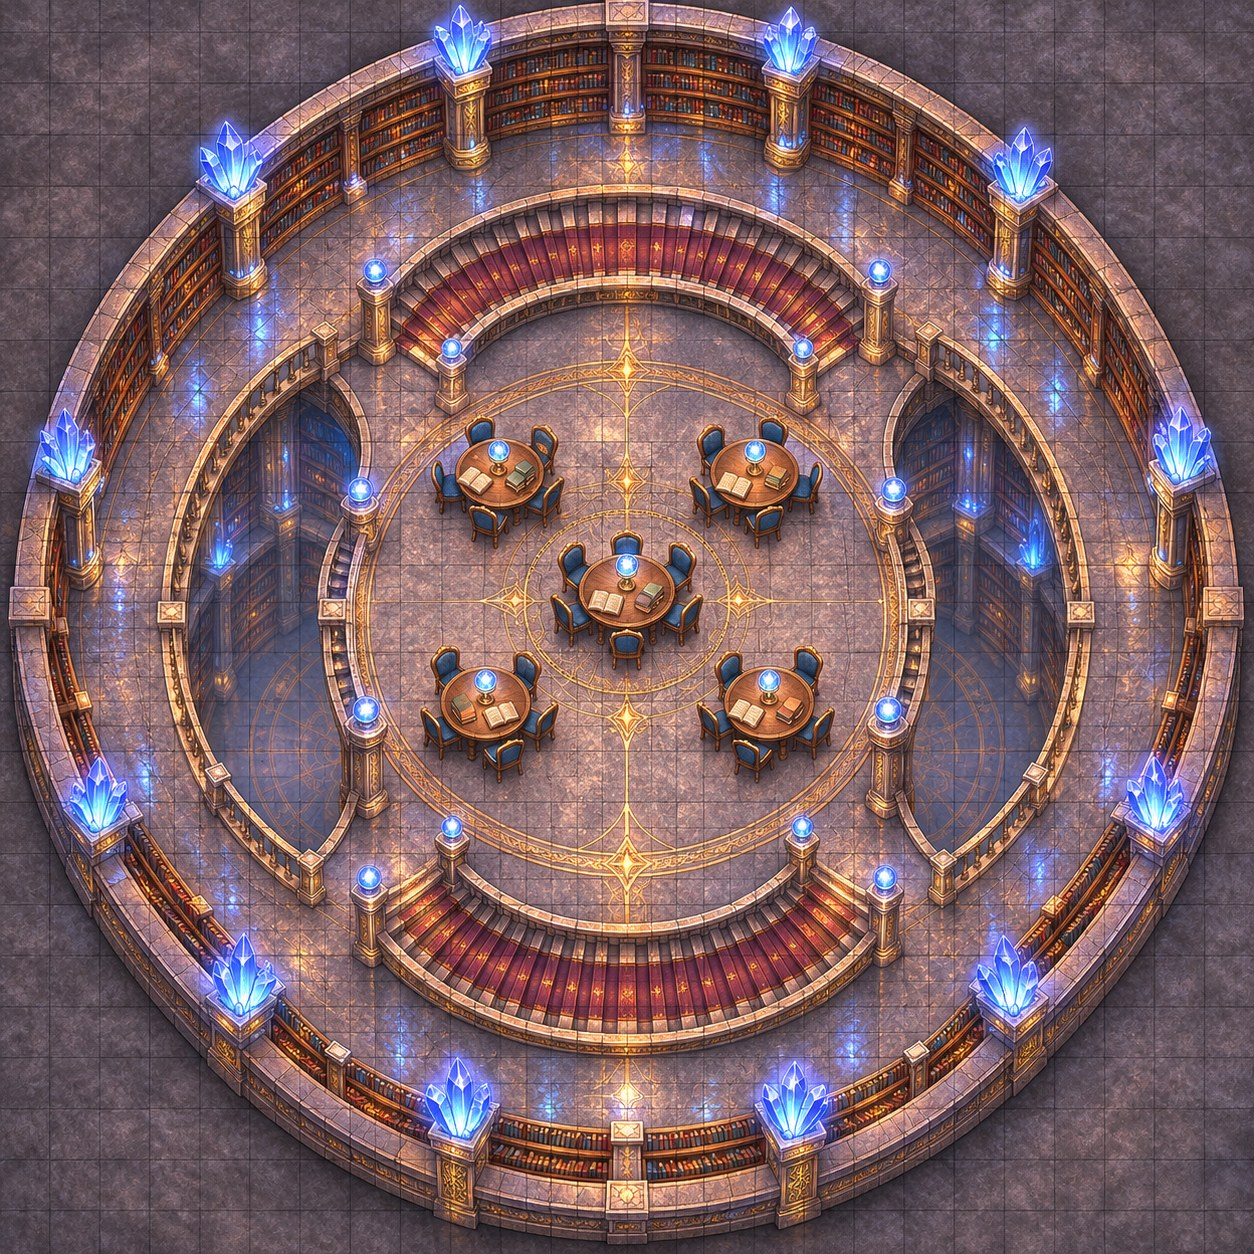
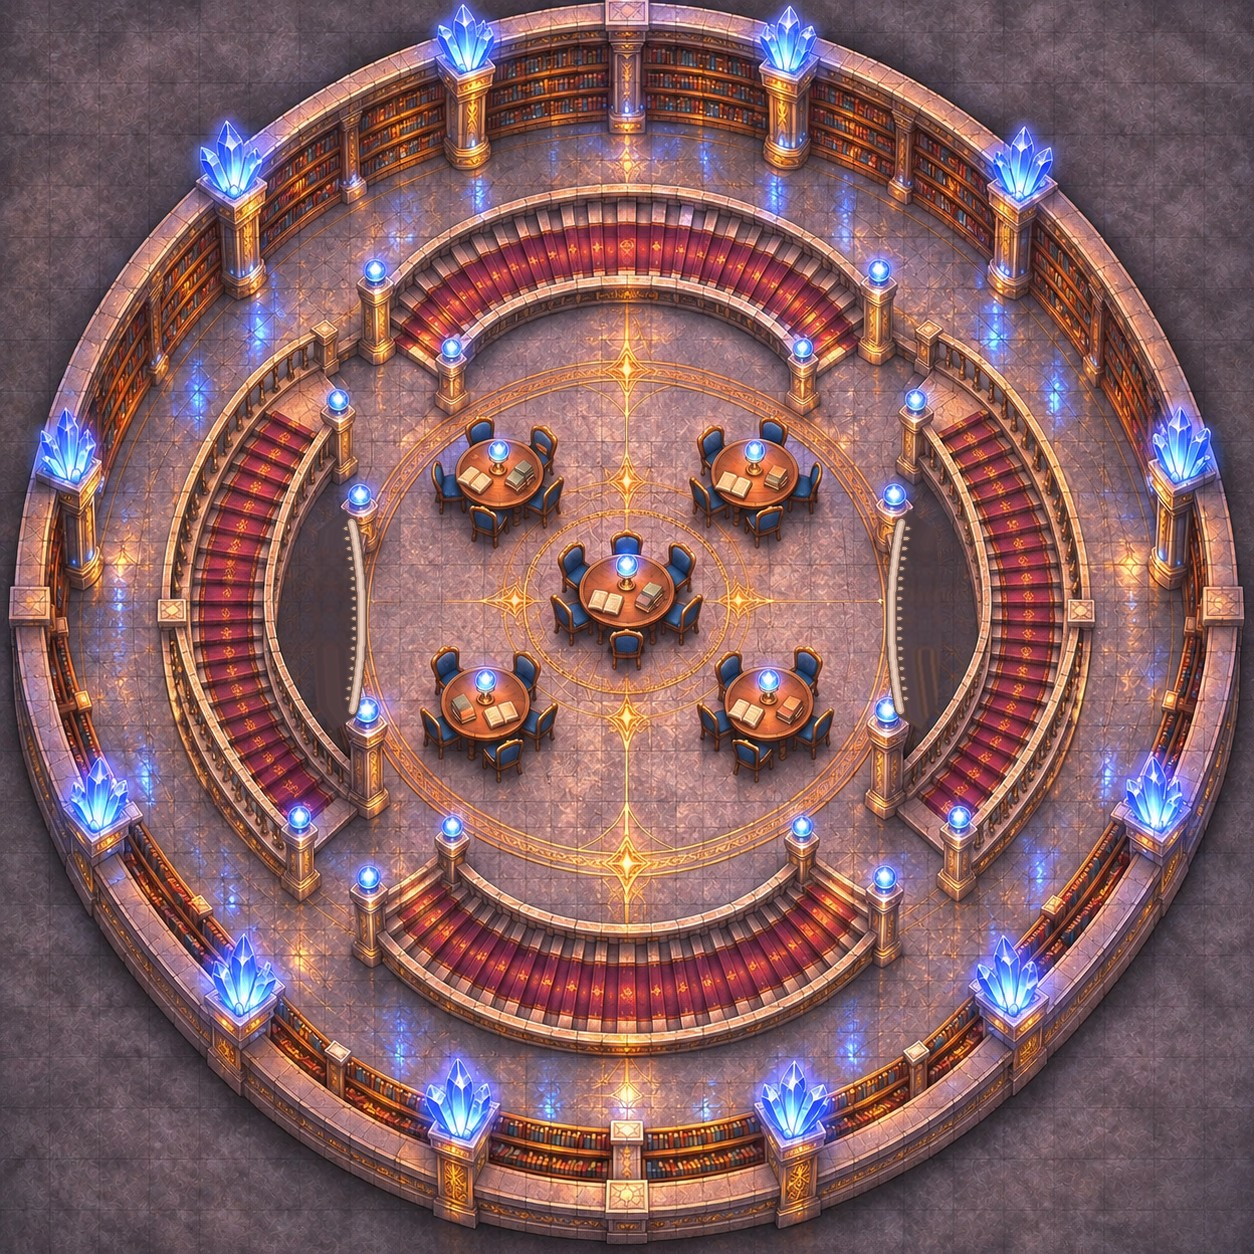
Great Archives: gallery map stairs fixed by hand, key updated
Claude-Session: https://claude.ai/code/session_01QqMC3jV4Jm9bLjV1D99fiy

diff --git a/oneshots/great-archives/homebrewery-source.md b/oneshots/great-archives/homebrewery-source.md
@@ -869,7 +869,7 @@
 \page
 <div class="running" style="--accent:#8a3b12"><span>The Destruction of the Great Archives</span><span>PLAYER MAP</span></div><div class="pf-body gamap" style="--accent:#8a3b12"><p class="gm-eye">PLAYER MAP · GA-M02</p><h2>An Upper Gallery</h2><img class="gm-plate" alt="An Upper Gallery" src="https://oberonandomegaid.github.io/aelderia/oneshots/great-archives/img/map-gallery-player.jpg"><p class="gm-cap">1 square = 5 ft · use for any of Levels 2–6</p><p class="gm-next">GM map and key on the next page</p></div><div class="folio-footer"><span>The Destruction of the Great Archives</span><span>35</span></div>
 \page
-<div class="running" style="--accent:#8a3b12"><span>The Destruction of the Great Archives</span><span>GM · MAP KEY</span></div><div class="pf-body gamap" style="--accent:#8a3b12"><p class="gm-eye">GM MAP &amp; KEY · GA-M02</p><h2>An Upper Gallery</h2><img class="gm-plate small" alt="An Upper Gallery: GM reference" src="https://oberonandomegaid.github.io/aelderia/oneshots/great-archives/img/map-gallery-gm.jpg"><div class="gkeys"><div class="gk"><b>1 · Outer shelves</b> All the way round. The first thing to burn.</div><div class="gk"><b>2 · Reading platform</b> Raised, with tables and chairs. Half Cover.</div><div class="gk"><b>3 · The gaps</b> Open drops to the level below, with railings. The bird flies up through them; golems don’t jump them. Falling one level is 10 ft (1d6 damage).</div><div class="gk"><b>4 · The stairs</b> Up and down, top and bottom of the circle. Golems use these.</div><div class="gk"><b>5 · Crystal clusters</b> On the pillars. Watch them.</div><div class="gk"><b>6 · Golem patrol</b> One golem walks each gallery.</div></div><p class="gm-note2">Tall windows sit in the outer wall between the shelf runs: a long drop to the square, and a way out for a bird.</p></div><div class="folio-footer"><span>The Destruction of the Great Archives</span><span>36</span></div>
+<div class="running" style="--accent:#8a3b12"><span>The Destruction of the Great Archives</span><span>GM · MAP KEY</span></div><div class="pf-body gamap" style="--accent:#8a3b12"><p class="gm-eye">GM MAP &amp; KEY · GA-M02</p><h2>An Upper Gallery</h2><img class="gm-plate small" alt="An Upper Gallery: GM reference" src="https://oberonandomegaid.github.io/aelderia/oneshots/great-archives/img/map-gallery-gm.jpg"><div class="gkeys"><div class="gk"><b>1 · Outer shelves</b> All the way round. The first thing to burn.</div><div class="gk"><b>2 · Reading platform</b> Raised, with tables and chairs. Half Cover.</div><div class="gk"><b>3 · The gaps</b> Open drops to the level below, railed on the platform side. The bird flies up through them; golems don’t jump them. Falling one level is 10 ft (1d6 damage).</div><div class="gk"><b>4 · The stairs</b> Left and right, curving up from the outer walkway to the gallery above, directly over the Level 1 stairs. Golems use these.</div><div class="gk"><b>5 · Crystal clusters</b> On the pillars. Watch them.</div><div class="gk"><b>6 · Golem patrol</b> One golem walks each gallery.</div><div class="gk"><b>7 · Platform steps</b> Front and back: broad steps up from the walkway onto the reading platform.</div></div><p class="gm-note2">Tall windows sit in the outer wall between the shelf runs: a long drop to the square, and a way out for a bird.</p></div><div class="folio-footer"><span>The Destruction of the Great Archives</span><span>36</span></div>
 \page
 <div class="running" style="--accent:#8a3b12"><span>The Destruction of the Great Archives</span><span>GM · CHARACTERS</span></div><div class="pf-body columns" style="--accent:#8a3b12"><div class="layout-cols"><div class="flow-col"><h2>Appendix A — Characters</h2><div class="cast"><img alt="" src="https://oberonandomegaid.github.io/aelderia/oneshots/great-archives/img/professor.jpg" style="object-position:50% 12%"><div><p><strong>Professor Emeric Quillweather</strong> <em>(human, sixties).</em> Brilliant, respected, cultured and a tireless chatterbox. Eleven years on Var’s research. Loves the bird the moment it hatches, marvels at its rebirth, then fights for it. <em>Voice: a delighted lecturer on his third cup of tea.</em></p></div></div><div class="cast"><img alt="" src="https://oberonandomegaid.github.io/aelderia/oneshots/great-archives/img/faversham.jpg" style="object-position:50% 12%"><div><p><strong>Head Librarian Ottoline Faversham.</strong> Brisk, proud, never wrong. Holds authority over the restricted works. Saves what she can, then writes the official story. <em>Voice: crisp, cold, final.</em></p></div></div><div class="cast"><img alt="" src="https://oberonandomegaid.github.io/aelderia/oneshots/great-archives/img/golem.jpg" style="object-position:50% 20%"><div><p><strong>The golems.</strong> Seven stone guardians. Polite, precise, literal. Not broken, not stupid. They do exactly what they were built to do. <em>Voice: none. A polite clunk.</em></p></div></div></div><div class="flow-col"><div class="cast"><img alt="" src="https://oberonandomegaid.github.io/aelderia/oneshots/great-archives/img/brannoch.jpg" style="object-position:50% 14%"><div><p><strong>Brannoch Tey</strong> <em>(copyist and quiet follower of Isthara, early twenties).</em> Brave for about four seconds at a time. Escaped once, went back in without a bracelet for one holy book. Honest, frightened, grateful. <em>Voice: fast and breathless.</em></p></div></div><p><strong>The hatchling.</strong> Pipkin, Fizzwick, Solin or Tuppence. Fluffy, golden to crimson, enormous eyes. A phoenix, though nobody knew. Bonded to the professor.</p>
 <p><strong>Old Wenlow</strong> <em>(librarian).</em> Kind, forgetful, slow on the stairs. His bracelet is in his top pocket.</p>
